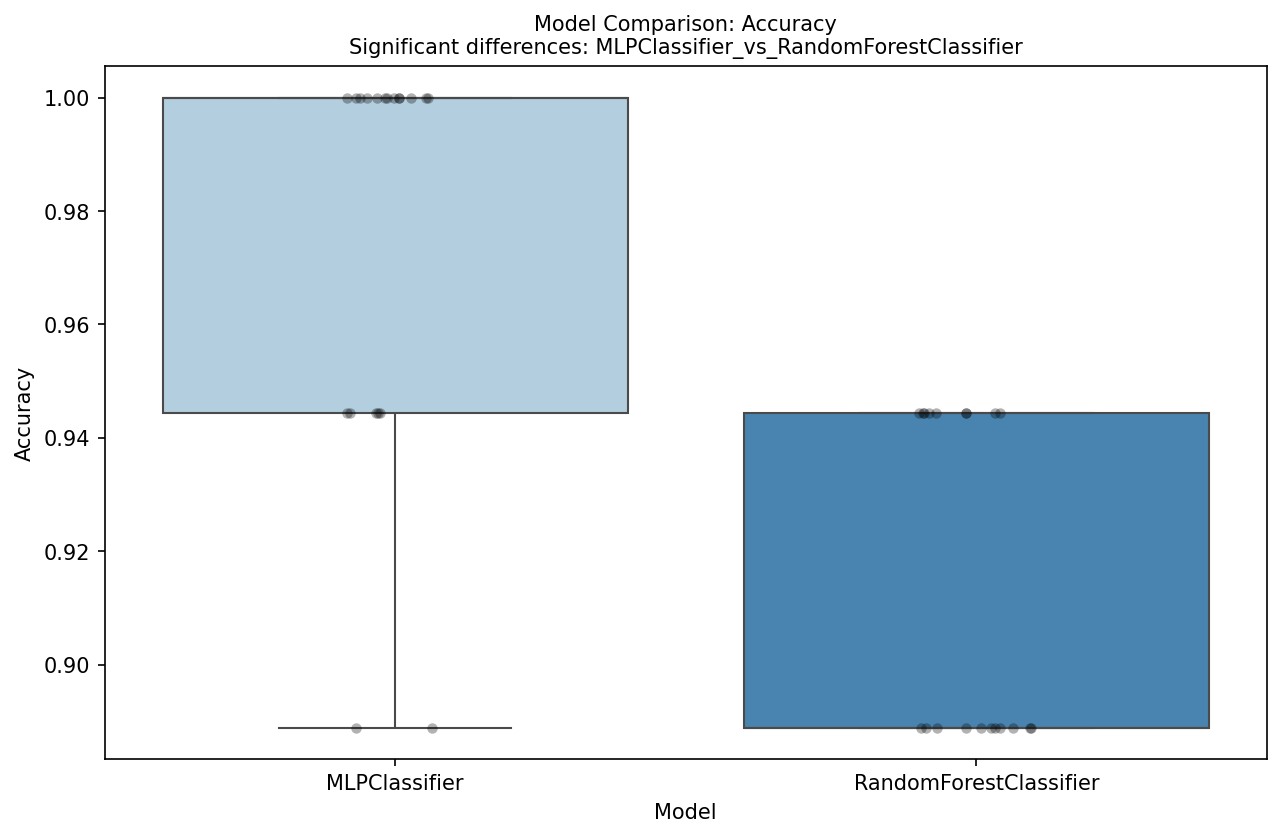
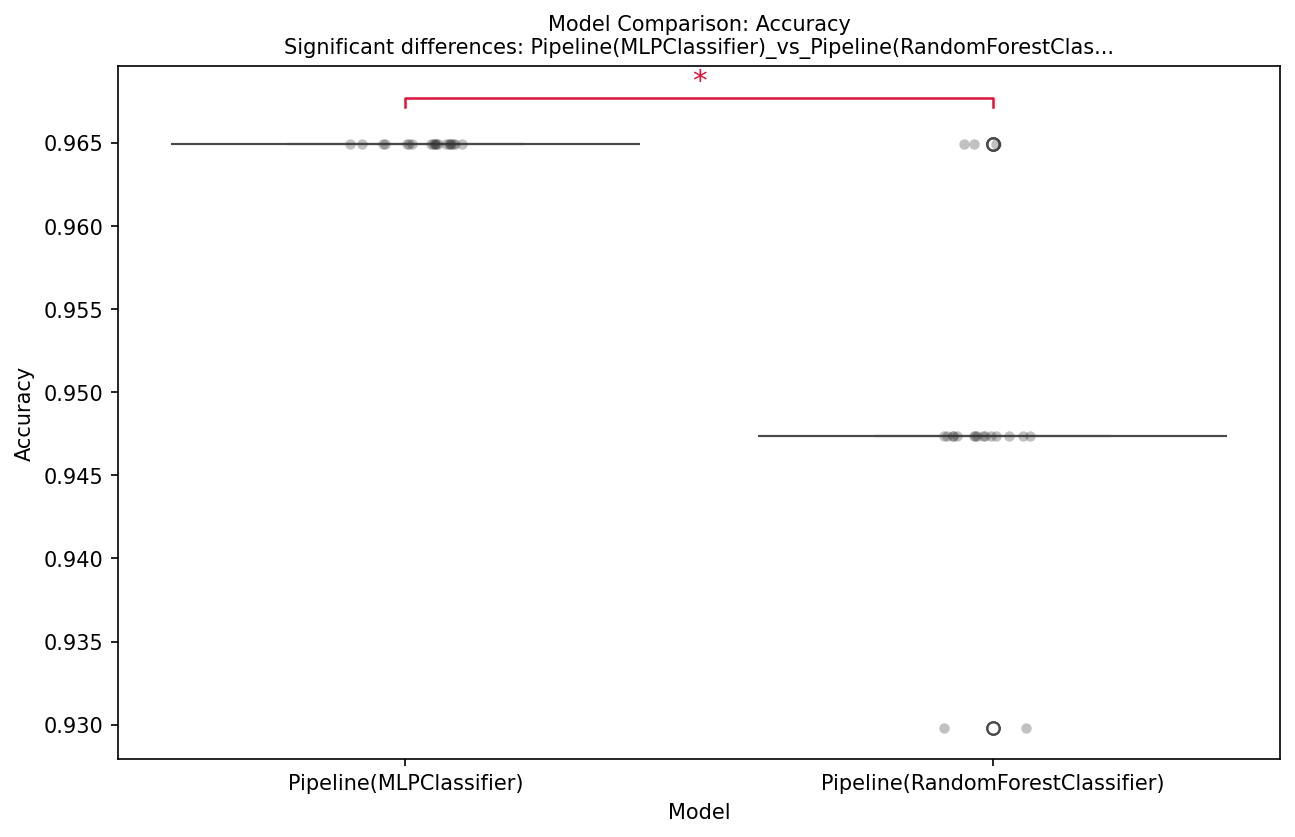
README: re-run both examples; correct stale claims
Both examples were re-run on this tree. Every output block and both
figures are real output.

- Quick start (TensorFlow 2.21 / Keras 3.15, run in an isolated
  environment). The model now uses BatchNormalization(momentum=0.9).
  With the default momentum (0.99) and about 80 training steps, the
  moving statistics stay near their initial values, the network sees
  effectively unscaled wine features at evaluation time, and many runs
  sat at chance (validation mean 0.514). With 0.9: validation 0.78 to
  1.00 (mean 0.914), test mean 0.892. The code comment explains the
  choice.
- Comparison example (owner decision OD-12). It now uses the
  breast-cancer data: on the stratified wine split both models score 1.0
  on every run of its 18-example validation set, so the comparison was
  undefined. Real result: MLP 55/57 on every run, random forest 53-55/57,
  p=0.0001, r=0.971, 95% CI for the mean difference 1.2 to 2.0 points.
  The narrative says the difference is about one validation example,
  smaller than the evaluation set's sampling error (about +/-2.4 pp).
  The example is now self-contained.
- Corrected claims:
  - "a few dozen examples ... no number of runs resolves a metric more
    finely than one evaluation sample" (false; the limit is the
    evaluation-set sampling error, now quoted from summarize());
  - "seeds the final estimator" (every random_state is seeded);
  - "An instance's random_state" (every random_state in the instance);
[…]

diff --git a/tests/test_docs_pinned.py b/tests/test_docs_pinned.py
@@ -44,7 +44,11 @@ def test_readme_states_split_conditionality():
     text = (ROOT / "README.md").read_text(encoding="utf-8")
     assert "on this train/validation split" in text
     assert "strong statistical significance" not in text
-    assert "one evaluation sample" in text
+    # The README states the limit that matters: the evaluation-set sampling error,
+    # which no number of runs reduces (0.5.0; the former "no number of runs
+    # resolves ... one evaluation sample" claim was false).
+    assert "no number of runs reduces it" in text
+    assert "resolves a metric more finely" not in text
 
 
 def test_summarize_reports_split_sizes(X, y):

diff --git a/README.md b/README.md
@@ -99,7 +99,10 @@ X, y = data.data, data.target
 
 def build_model(config):
     model = tf.keras.Sequential([
-        tf.keras.layers.BatchNormalization(),
+        # momentum=0.9: in ~80 training steps the default (0.99) leaves the
+        # moving statistics near their initial values, so the model would see
+        # effectively unscaled features at evaluation time.
+        tf.keras.layers.BatchNormalization(momentum=0.9),
         tf.keras.layers.Dense(16, activation='relu'),
         tf.keras.layers.Dense(16, activation='relu'),
         tf.keras.layers.Dense(3, activation='softmax')
@@ -126,51 +129,66 @@ Variability Study Results
 ==============================
 Successful runs: 20
 Seed: 42
+Data split: train 124 / val 18 / test 36
+Stratified split: yes
+Evaluation-set sampling error: +/-5.2 pp (binomial SE of test_accuracy = 0.892 at n_eval = 36). Seed variation cannot reduce this, and no seed-level test includes it.
 
 Test Set Metrics:
 --------------------
 accuracy:
-  Mean:             0.9097
-  SD (sample, N-1): 0.0467
+  N:                20
+  Mean:             0.8917
+  SD (sample, N-1): 0.0422
+  SE:               0.0094
   Min:              0.8333
   Max:              0.9722
 loss:
-  Mean:             0.5285
-  SD (sample, N-1): 0.1085
-  Min:              0.3791
-  Max:              0.7748
+  N:                20
+  Mean:             0.4901
+  SD (sample, N-1): 0.1016
+  SE:               0.0227
+  Min:              0.3229
+  Max:              0.7102
 
-Validation Metrics:
+Training & Validation Metrics:
 --------------------
 train_accuracy:
-  Mean:             0.8851
-  SD (sample, N-1): 0.0436
-  Min:              0.8065
-  Max:              0.9355
+  N:                20
+  Mean:             0.9069
+  SD (sample, N-1): 0.0303
+  SE:               0.0068
+  Min:              0.8629
+  Max:              0.9597
 train_loss:
-  Mean:             0.5507
-  SD (sample, N-1): 0.0987
-  Min:              0.4288
-  Max:              0.7760
+  N:                20
+  Mean:             0.5038
+  SD (sample, N-1): 0.0940
+  SE:               0.0210
+  Min:              0.3792
+  Max:              0.7088
 val_accuracy:
-  Mean:             0.9194
-  SD (sample, N-1): 0.0709
-  Min:              0.7222
+  N:                20
+  Mean:             0.9139
+  SD (sample, N-1): 0.0732
+  SE:               0.0164
+  Min:              0.7778
   Max:              1.0000
 val_loss:
-  Mean:             0.4981
-  SD (sample, N-1): 0.1105
-  Min:              0.3793
-  Max:              0.7476
+  N:                20
+  Mean:             0.5041
+  SD (sample, N-1): 0.1083
+  SE:               0.0242
+  Min:              0.3387
+  Max:              0.7007
 ```
 
-On a 178-sample dataset, the same architecture produces models with validation accuracy ranging from 72% to 100% depending solely on the random seed. Part of that spread is arithmetic: with the default splits the validation set has a few dozen examples, so one example is several percentage points, and no number of runs resolves a metric more finely than one evaluation sample.  Ictonyx also provides for plotting of training histories:
+On a 178-sample dataset, the same architecture produces models with validation accuracy ranging from 78% to 100% depending solely on the random seed. The validation set has 18 examples, so one example is 5.6 percentage points. Averaging over runs resolves finer than that, but every run is scored on the same small evaluation sets, and their sampling error (the ±5.2 pp that `summarize()` reports for test accuracy on 36 examples) is shared by every run: no number of runs reduces it. Classification splits are stratified by default, so each split keeps the class proportions of the whole dataset.  Ictonyx also provides for plotting of training histories:
 
 ```python
 ix.plot_variability_summary(results=results, metric='accuracy')
 ```
 
-![Variability summary for keras CNN across 20 runs](images/variability_summary.png)
+![Variability summary for a Keras dense network across 20 runs](images/variability_summary.png)
 
 ---
 
@@ -178,22 +196,28 @@ ix.plot_variability_summary(results=results, metric='accuracy')
 
 Because of training variability, a single run is generally inadequate to make valid comparisons between models with respect to a particular metric.  Ictonyx facilitates more statistically sound model comparison with its compare_models() function, which runs multiple models the same number of times, and applies an appropriate hypothesis test to the results.
 
-Ictonyx also supports sklearn estimators — pass a class or a configured instance directly; no wrapper is required. An instance's `random_state` is overridden with the per-run seed (a warning says so once).
+Ictonyx also supports sklearn estimators — pass a class or a configured instance directly; no wrapper is required. Every `random_state` in an instance, including inside Pipelines and meta-estimators, is overridden with the per-run seed (a warning says so once).
 
 ```python
+import ictonyx as ix
+from sklearn.datasets import load_breast_cancer
 from sklearn.ensemble import RandomForestClassifier
 from sklearn.neural_network import MLPClassifier
 from sklearn.pipeline import make_pipeline
 from sklearn.preprocessing import StandardScaler
 
+# Wine's 18-example validation set cannot separate two strong models: on it,
+# both score 100% on every run. The breast-cancer data is larger.
+X_bc, y_bc = load_breast_cancer(return_X_y=True)
+
 # A Pipeline fits the scaler on each run's training data only. Ictonyx seeds
-# the final estimator per run and names the pipeline by it.
+# every random_state in the pipeline per run and names it by its final estimator.
 comparison = ix.compare_models(
     models=[
         make_pipeline(StandardScaler(), MLPClassifier(hidden_layer_sizes=(64,), max_iter=200)),
         make_pipeline(StandardScaler(), RandomForestClassifier(n_estimators=40)),
     ],
-    data=(X, y),
+    data=(X_bc, y_bc),
     runs=20,
     metric='val_accuracy',
     seed=42,
@@ -209,10 +233,10 @@ ix.plot_comparison_boxplots(comparison)
 Model Comparison Results (val_accuracy)
 ========================================
 Models compared: 2
-Omnibus test: Paired Wilcoxon Signed-Rank Test: 5.500, p=0.0005 ***, r (effect size)=0.815
+Test: Paired Wilcoxon Signed-Rank Test: 0.000, p=0.0001 ***, matched-pairs rank-biserial r=0.971, 95% CI [0.0123, 0.0202]
 
 Pairwise comparisons (none correction):
-  Pipeline(MLPClassifier)_vs_Pipeline(RandomForestClassifier): Paired Wilcoxon Signed-Rank Test: 5.500, p=0.0005 ***, r (effect size)=0.815 *
+  Pipeline(MLPClassifier)_vs_Pipeline(RandomForestClassifier): Paired Wilcoxon Signed-Rank Test: 0.000, p=0.0001 ***, matched-pairs rank-biserial r=0.971, 95% CI [0.0123, 0.0202] *
 
 Significant pairs: Pipeline(MLPClassifier)_vs_Pipeline(RandomForestClassifier)
 ```
@@ -221,7 +245,7 @@ Significant pairs: Pipeline(MLPClassifier)_vs_Pipeline(RandomForestClassifier)
 
 Each model receives the same seed per run: each MLP run is directly paired with the corresponding Random Forest run.  This allows us to use the non-parametric paired Wilcoxon signed-rank test.
 
-Here, MLP outperformed Random Forest with a matched-pairs rank-biserial effect size of r=0.815 (p=0.0005). What a significant paired result establishes is that, **on this train/validation split**, MLP's seed-to-seed distribution is shifted relative to Random Forest's. It does not by itself establish that MLP is the more accurate model on new splits or new data; the sampling error of the fixed evaluation set is shared by every run and is not part of the test. Pairing on seed guarantees aligned samples; it does not make the test more powerful than an unpaired one, so plan `runs` accordingly.
+Here the MLP classified 55 of the 57 validation examples correctly (96.5%) on every run, while the random forest ranged from 53 to 55 (93.0% to 96.5%). The MLP was never worse, so the paired test is decisive (p=0.0001; matched-pairs rank-biserial r=0.971; 95% CI for the mean paired difference 1.2 to 2.0 percentage points). That difference is about one validation example, smaller than the evaluation set's own sampling error at this accuracy (about ±2.4 pp). What a significant paired result establishes is that, **on this train/validation split**, MLP's seed-to-seed distribution is shifted relative to Random Forest's. It does not by itself establish that MLP is the more accurate model on new splits or new data; the sampling error of the fixed evaluation set is shared by every run and is not part of the test. Pairing on seed guarantees aligned samples; it does not make the test more powerful than an unpaired one, so plan `runs` accordingly.
 
 The 'none correction' label is present because with only two models, no multiple-comparison correction is applied.
 
